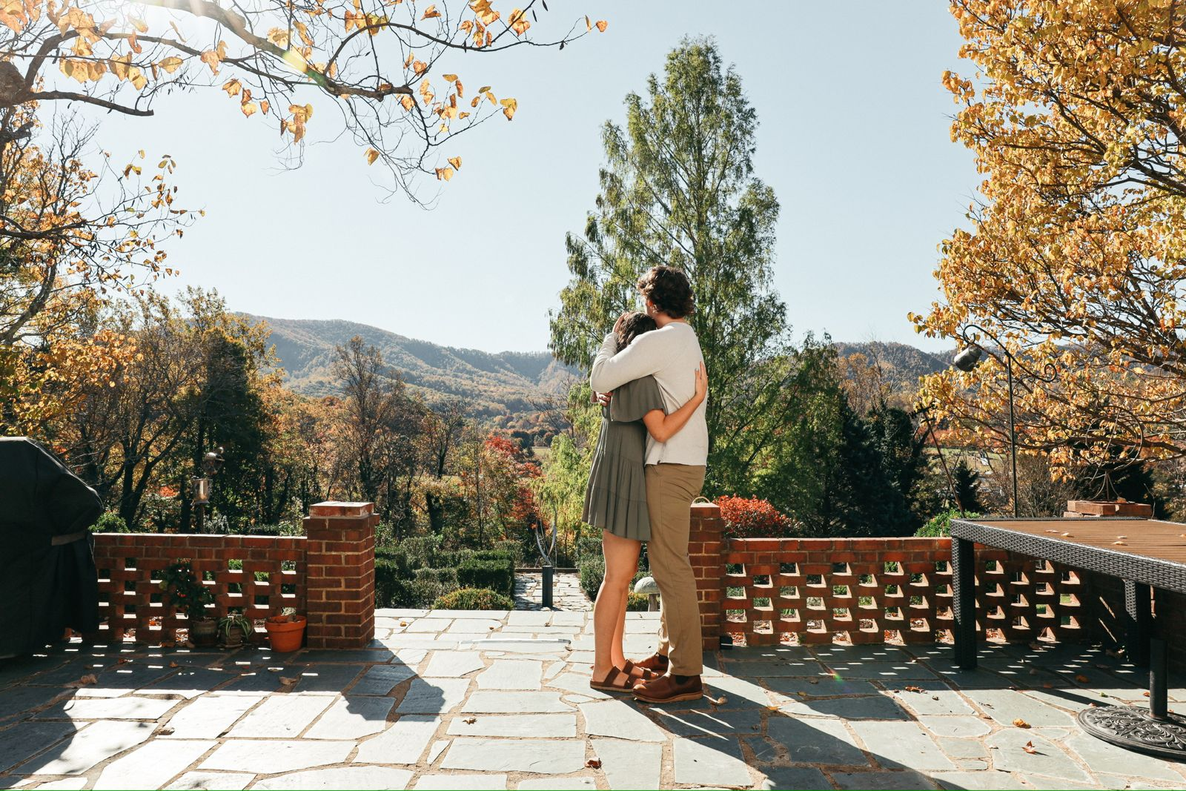
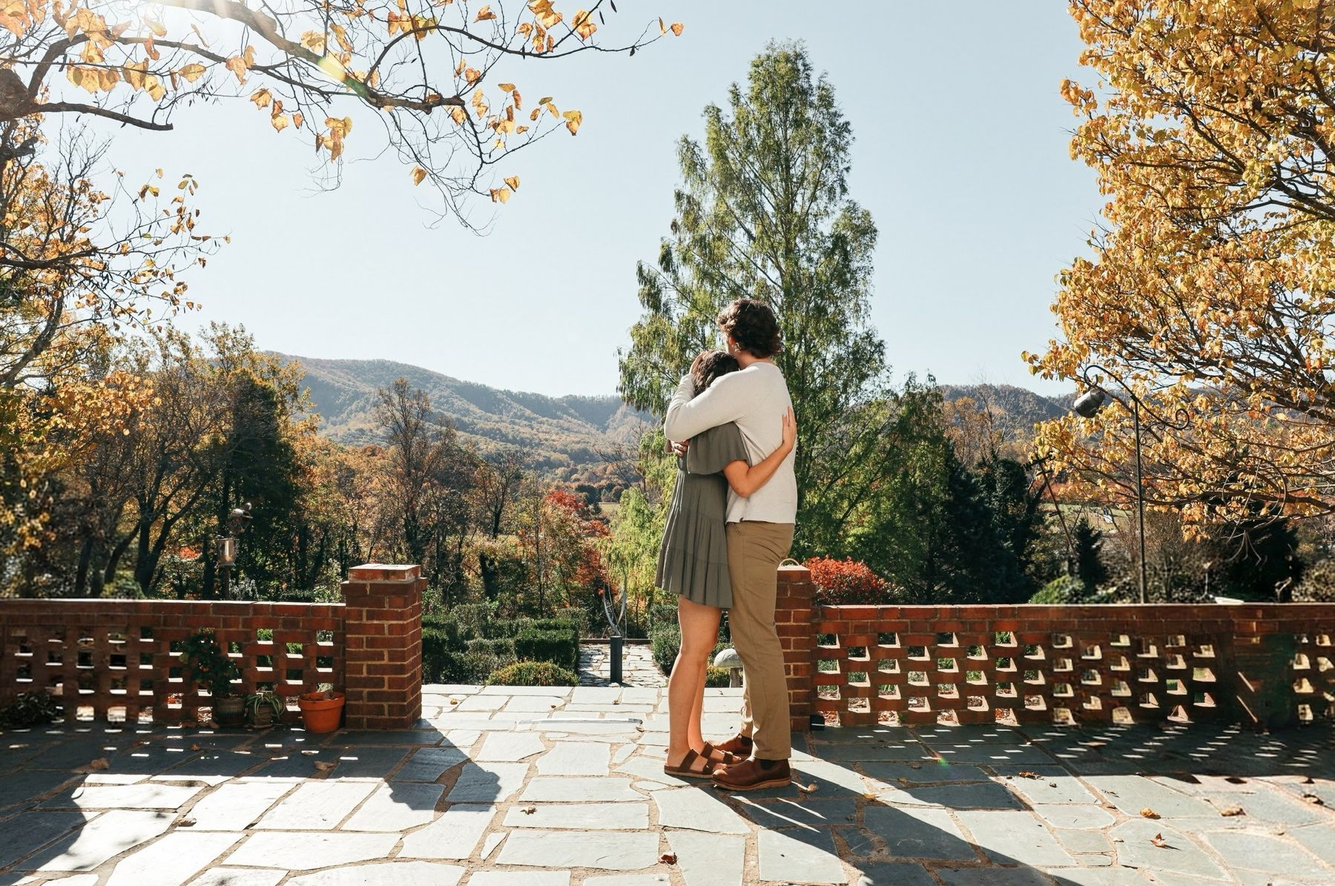
Rework home page around the farm with house, animals, photos, things to do, and gatherings
Claude-Session: https://claude.ai/code/session_01VwwaFFwLB7cz9FE1Lz7YEH

diff --git a/index.html b/index.html
@@ -45,18 +45,13 @@
           alt="The white 1840s farmhouse at High View Farm against the Blue Ridge in autumn"
         />
         <div class="hero-copy">
-          <p class="eyebrow">Welcome</p>
+          <p class="eyebrow">Roseland, Virginia</p>
           <h1>High View Farm</h1>
           <p>
-            An 1840s farm stay on more than seventy acres in Roseland, Virginia.
+            An 1840s farm stay on more than seventy acres at the foot of the
+            Blue Ridge.
           </p>
-          <a
-            class="btn btn-gold"
-            href="https://www.airbnb.com/rooms/944918152360778142"
-            target="_blank"
-            rel="noopener"
-            >Book a stay</a
-          >
+          <a class="btn btn-gold" href="https://www.airbnb.com/rooms/944918152360778142" target="_blank" rel="noopener">Book a stay</a>
           <a class="btn btn-ghost" href="nearby.html">Things to do</a>
         </div>
       </section>
@@ -64,18 +59,18 @@
       <section class="section">
         <div class="section-inner split">
           <img
-            src="images/buildings.jpg"
-            alt="Aerial view of the Main House, Guest House, Schoolhouse, barn, and garden"
+            src="images/house.jpg"
+            alt="The white clapboard Main House on its lawn, with black shutters and a front porch"
           />
           <div>
             <p class="kicker">The farm</p>
             <h2>Three houses, one hillside.</h2>
             <p>
-              High View is comprised of the Main House, the Guest House, and the
-              Schoolhouse. Stays begin in the Main House; the other two can be
-              added for a larger group.
+              The Main House, the Guest House, and the Schoolhouse sit together
+              above the valley. Stays begin in the Main House; the other two can
+              be added for a larger group.
             </p>
-            <p><a href="photos.html">See the photographs</a></p>
+            <p><a class="btn btn-dark" href="https://www.airbnb.com/rooms/944918152360778142" target="_blank" rel="noopener">Book on Airbnb</a></p>
           </div>
         </div>
 
@@ -103,65 +98,86 @@
       <section class="section band">
         <div class="section-inner split reverse">
           <div>
-            <p class="kicker">Gatherings</p>
-            <h2>Small weddings and weekends together.</h2>
+            <p class="kicker">In the pastures</p>
+            <h2>Highland cattle and mini donkeys.</h2>
             <p>
-              Reunions, retreats, and small celebrations — not large public
-              events. Mention dates when you book.
-            </p>
-            <p>
-              <a
-                class="btn btn-dark"
-                href="https://www.airbnb.com/rooms/944918152360778142"
-                target="_blank"
-                rel="noopener"
-                >Inquire with your dates</a
-              >
+              The animals graze the fields around the houses. There is also a
+              pond and a river for swimming and fishing, a hot tub, bocce, and a
+              fire pit.
             </p>
           </div>
           <img
-            src="images/extra1.jpg"
-            alt="Two Adirondack chairs on the lawn at dusk, facing the mountains"
+            src="images/cows.jpg"
+            alt="Scottish Highland cattle, including a calf, in a pasture at High View Farm"
           />
         </div>
       </section>
 
       <section class="section">
-        <div class="section-inner visit-card">
-          <div class="visit-copy">
-            <p class="kicker">Visit</p>
-            <h2>524 Winery Lane</h2>
-            <p>
-              Roseland, Virginia, at the foot of Wintergreen. Cattle and
-              donkeys in the pastures, a pond and river on the land, and a walk
-              to Blue Toad.
-            </p>
-            <address>
-              High View Farm<br />
-              524 Winery Lane<br />
-              Roseland, Virginia
-            </address>
-            <a
-              class="btn btn-gold"
-              href="https://www.airbnb.com/rooms/944918152360778142"
-              target="_blank"
-              rel="noopener"
-              >Book on Airbnb</a
-            >
+        <div class="section-inner">
+          <div class="section-head">
+            <div>
+              <p class="kicker">Photographs</p>
+              <h2>Inside and out.</h2>
+            </div>
+            <a href="photos.html">See all photographs</a>
           </div>
-          <div class="visit-photo">
-            <img
-              src="images/kitchen.jpg"
-              alt="Farmhouse kitchen with wood counters and green window trim"
-            />
+          <div class="home-gallery">
+            <img src="images/kitchen.jpg" alt="Farmhouse kitchen with wood counters and green window trim" loading="lazy" />
+            <img src="images/family-room.jpg" alt="Brick sitting room with beams and a fireplace" loading="lazy" />
+            <img src="images/bocce.jpg" alt="Bocce court looking out to the mountains" loading="lazy" />
+            <img src="images/extra1.jpg" alt="Two Adirondack chairs on the lawn at dusk" loading="lazy" />
           </div>
+        </div>
+      </section>
+
+      <section class="section band">
+        <div class="section-inner">
+          <div class="section-head">
+            <div>
+              <p class="kicker">Nearby</p>
+              <h2>Things to do.</h2>
+            </div>
+            <a href="nearby.html">See the full list</a>
+          </div>
+          <div class="todo-cards">
+            <a class="todo" href="nearby.html">
+              <img src="images/wintergreen.jpg" alt="Wintergreen Resort in the mountains" loading="lazy" />
+              <span>Wintergreen</span>
+            </a>
+            <a class="todo" href="nearby.html">
+              <img src="images/hikes.jpg" alt="A Blue Ridge hiking trail" loading="lazy" />
+              <span>Hikes</span>
+            </a>
+            <a class="todo" href="nearby.html">
+              <img src="images/devils-backbone.jpg" alt="A brewery near the farm" loading="lazy" />
+              <span>Beer and cider</span>
+            </a>
+          </div>
+        </div>
+      </section>
+
+      <section class="gathering">
+        <img
+          src="images/terrace.jpg"
+          alt="A couple embracing on the brick terrace, with fall color and the mountains beyond"
+          loading="lazy"
+        />
+        <div class="gathering-copy">
+          <p class="kicker">Gatherings &amp; special moments</p>
+          <p>
+            If you’re hoping to host a larger gathering or mark a special
+            moment at High View, we’d love to chat and see what we can make
+            happen.
+          </p>
+          <a class="btn btn-gold" href="https://www.airbnb.com/rooms/944918152360778142" target="_blank" rel="noopener">Get in touch</a>
         </div>
       </section>
     </main>
 
     <footer class="site-footer">
-      <span>High View Farm · highview.farm</span>
-      <span>© <span id="year"></span> High View Farm</span>
+      <span>High View Farm · 524 Winery Lane, Roseland, Virginia</span>
+      <span><a href="https://www.airbnb.com/rooms/944918152360778142" target="_blank" rel="noopener">Book on Airbnb</a> · © <span id="year"></span></span>
     </footer>
     <script src="script.js"></script>
   </body>

diff --git a/styles.css b/styles.css
@@ -546,6 +546,160 @@ h2 {
   }
 }
 
+/* Home page */
+.section-head {
+  display: flex;
+  justify-content: space-between;
+  align-items: flex-end;
+  gap: 1rem;
+  margin-bottom: 2rem;
+}
+
+.section-head h2 {
+  margin: 0;
+}
+
+.section-head > a {
+  font-size: 0.72rem;
+  letter-spacing: 0.16em;
+  text-transform: uppercase;
+  white-space: nowrap;
+}
+
+.home-gallery {
+  display: grid;
+  grid-template-columns: 1.3fr 1fr 1fr 1.3fr;
+  gap: 0.75rem;
+}
+
+.home-gallery img {
+  width: 100%;
+  height: 340px;
+  object-fit: cover;
+}
+
+.todo-cards {
+  display: grid;
+  grid-template-columns: repeat(3, 1fr);
+  gap: 1.4rem;
+}
+
+.todo {
+  text-decoration: none;
+  color: var(--ink);
+}
+
+.todo img {
+  width: 100%;
+  height: 260px;
+  object-fit: cover;
+  margin-bottom: 0.9rem;
+}
+
+.todo span {
+  font-family: var(--serif);
+  font-size: 1.5rem;
+}
+
+.todo:hover span {
+  color: var(--forest);
+}
+
+.gathering {
+  position: relative;
+  min-height: 88vh;
+  display: grid;
+  align-items: end;
+  color: var(--cream);
+  overflow: hidden;
+}
+
+.gathering img {
+  position: absolute;
+  inset: 0;
+  width: 100%;
+  height: 100%;
+  object-fit: cover;
+}
+
+.gathering::after {
+  content: "";
+  position: absolute;
+  inset: 0;
+  background:
+    linear-gradient(to right, rgba(21, 36, 31, 0.6) 0%, rgba(21, 36, 31, 0) 45%),
+    linear-gradient(to top, rgba(21, 36, 31, 0.7) 0%, rgba(21, 36, 31, 0) 50%);
+}
+
+.gathering-copy {
+  position: relative;
+  z-index: 1;
+  max-width: 34rem;
+  padding: 0 6vw 5rem;
+}
+
+.gathering-copy .kicker {
+  color: var(--gold-soft);
+}
+
+.gathering-copy p:not(.kicker) {
+  font-family: var(--serif);
+  font-size: clamp(1.35rem, 2.2vw, 1.75rem);
+  line-height: 1.35;
+  margin: 0 0 1.6rem;
+}
+
+.site-footer a {
+  color: var(--muted);
+}
+
+@media (max-width: 860px) {
+  .home-gallery {
+    grid-template-columns: 1fr 1fr;
+  }
+
+  .home-gallery img {
+    height: 200px;
+  }
+
+  .todo-cards {
+    grid-template-columns: 1fr;
+  }
+
+  .todo img {
+    height: 220px;
+  }
+
+  .section-head {
+    flex-direction: column;
+    align-items: flex-start;
+  }
+
+  .gathering {
+    display: block;
+    min-height: 0;
+    background: var(--forest);
+  }
+
+  .gathering::after {
+    display: none;
+  }
+
+  .gathering img {
+    position: static;
+    height: 60vh;
+    object-position: 55% center;
+  }
+
+  .gathering-copy {
+    padding: 2.6rem 6vw 3.2rem;
+  }
+
+  .site-footer {
+    flex-direction: column;
+  }
+}
+
 @media (prefers-reduced-motion: reduce) {
   html {
     scroll-behavior: auto;

diff --git a/photos.html b/photos.html
@@ -68,13 +68,14 @@
         <img src="images/kitchen.jpg" alt="Farmhouse kitchen" />
         <img src="images/family-room.jpg" alt="Brick sitting room with beams and a fireplace" />
         <img src="images/dining.jpg" alt="Four-poster bedroom in the farmhouse" />
+        <img class="wide" src="images/house.jpg" alt="The Main House on its lawn in autumn light" />
         <img src="images/parlor.jpg" alt="Parlor bedroom" />
         <img src="images/master.jpg" alt="Master suite" />
         <img src="images/cottage.jpg" alt="Cottage bedroom with stone fireplace" />
         <img src="images/schoolhouse.jpg" alt="Schoolhouse bedroom" />
         <img class="wide" src="images/bocce.jpg" alt="Bocce court looking out to the mountains" />
         <img src="images/extra1.jpg" alt="Chairs on the lawn at dusk" />
-        <img src="images/walk.jpg" alt="A couple walking under a golden maple in autumn" />
+        <img src="images/ring.jpg" alt="Close detail of an engagement ring on the terrace" />
         <img class="wide" src="images/terrace.jpg" alt="A couple on the brick terrace with the Blue Ridge in fall color beyond" />
       </div>
 
